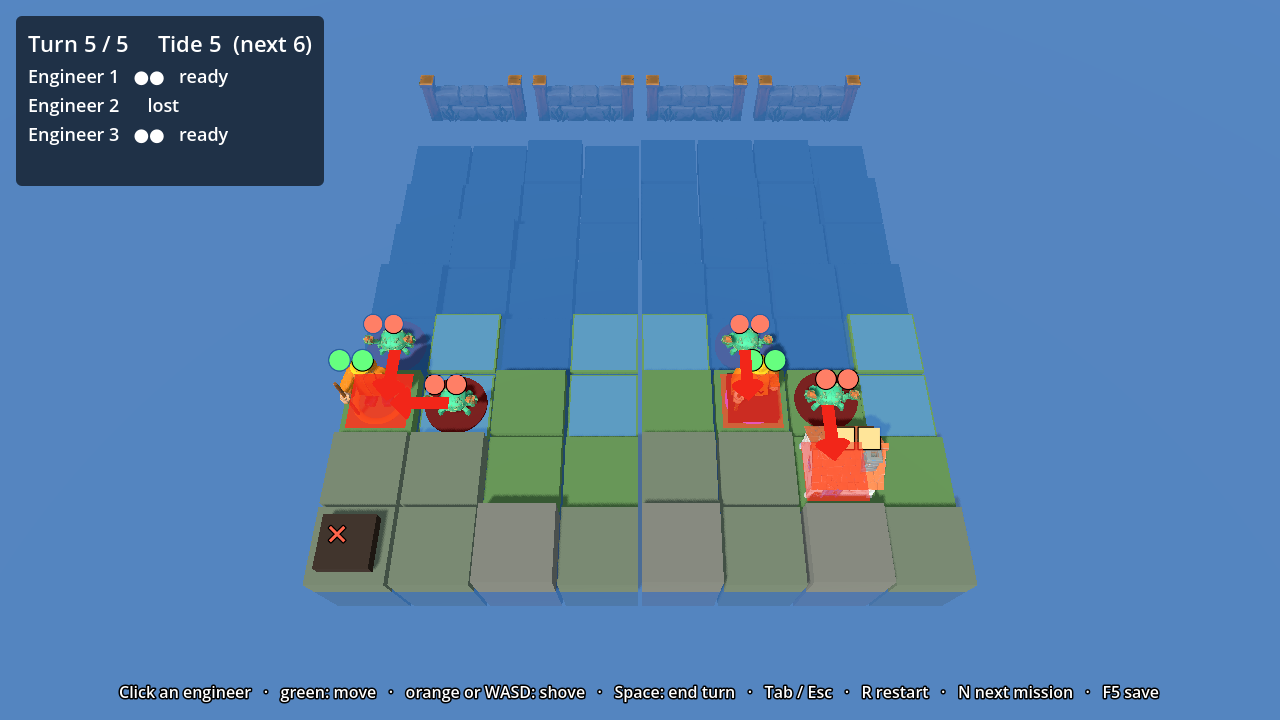
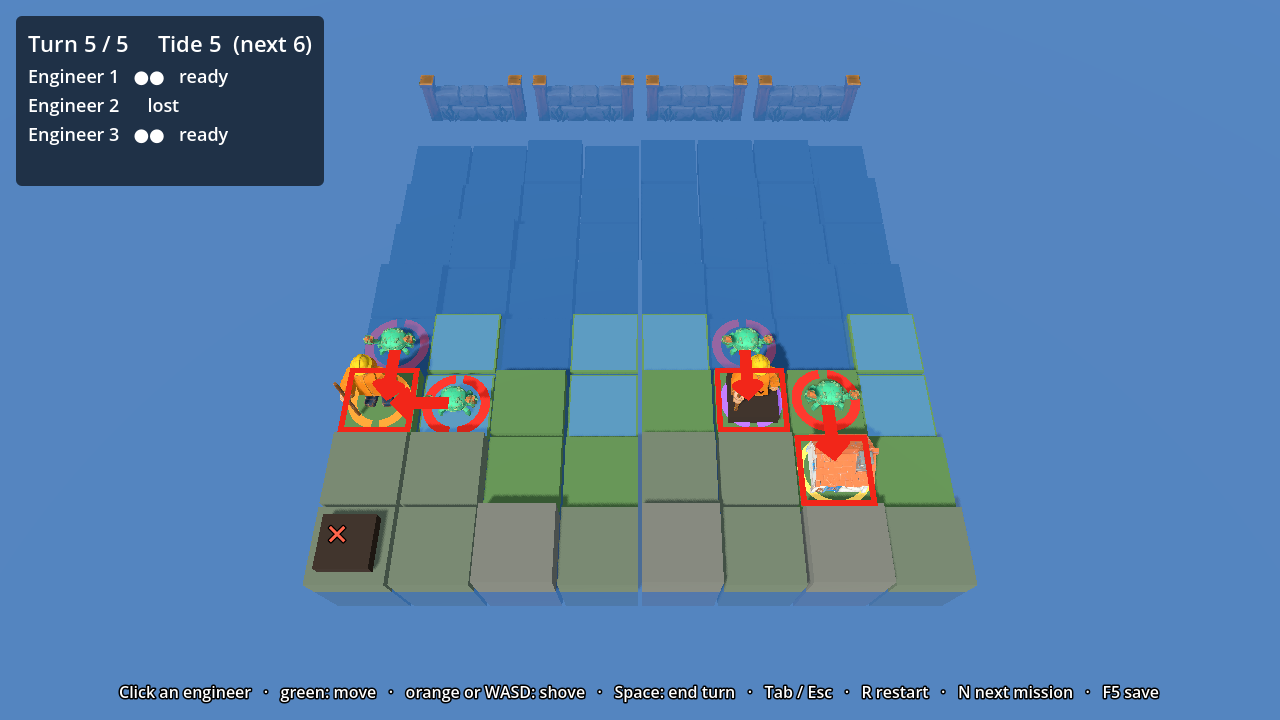
Show health on the ground, not over the models (#55)
Show health on the ground, not over the models

Segmented health rings under units and round cottages, a dark wash on hurt
models, floating pips removed; strike markers become hollow frames so targets
stay readable. Max HP comes from the core. Golden re-recorded on purpose.

Closes #54

Changed region(s): [[0.5312, 0.4278, 0.7188, 0.7028], [0.25, 0.4278, 0.4062, 0.6111]]

diff --git a/extension/src/breakwater_mission.cpp b/extension/src/breakwater_mission.cpp
@@ -158,6 +158,10 @@ godot::String BreakwaterMission::end_turn() { return apply(EndTurnCommand{}); }
 int64_t BreakwaterMission::get_size() const { return kBoardSize; }
 
 int64_t BreakwaterMission::get_turn_count() const { return kTurnCount; }
+
+int64_t BreakwaterMission::get_unit_max_hp() const { return kUnitHp; }
+
+int64_t BreakwaterMission::get_building_max_hp() const { return kBuildingHp; }
 // NOLINTEND(readability-convert-member-functions-to-static)
 
 int64_t BreakwaterMission::get_seed() const { return std::bit_cast<int64_t>(mission_.seed()); }
@@ -256,6 +260,8 @@ void BreakwaterMission::_bind_methods() {
     ClassDB::bind_method(D_METHOD("get_seed"), &BreakwaterMission::get_seed);
     ClassDB::bind_method(D_METHOD("get_turn"), &BreakwaterMission::get_turn);
     ClassDB::bind_method(D_METHOD("get_turn_count"), &BreakwaterMission::get_turn_count);
+    ClassDB::bind_method(D_METHOD("get_unit_max_hp"), &BreakwaterMission::get_unit_max_hp);
+    ClassDB::bind_method(D_METHOD("get_building_max_hp"), &BreakwaterMission::get_building_max_hp);
     ClassDB::bind_method(D_METHOD("get_tide"), &BreakwaterMission::get_tide);
     ClassDB::bind_method(D_METHOD("get_outcome"), &BreakwaterMission::get_outcome);
     ClassDB::bind_method(D_METHOD("get_elevation", "x", "y"), &BreakwaterMission::get_elevation);

diff --git a/extension/src/breakwater_mission.hpp b/extension/src/breakwater_mission.hpp
@@ -78,6 +78,9 @@ public:
     [[nodiscard]] int64_t get_seed() const;
     [[nodiscard]] int64_t get_turn() const;
     [[nodiscard]] int64_t get_turn_count() const;
+    /// Full HP of a unit and of a building, for health displays.
+    [[nodiscard]] int64_t get_unit_max_hp() const;
+    [[nodiscard]] int64_t get_building_max_hp() const;
     [[nodiscard]] int64_t get_tide() const;
     [[nodiscard]] int64_t get_outcome() const;
     [[nodiscard]] int64_t get_elevation(int64_t x, int64_t y) const;

diff --git a/core/include/breakwater/board.hpp b/core/include/breakwater/board.hpp
@@ -10,6 +10,8 @@ namespace breakwater {
 
 inline constexpr int kBoardSize = 8;
 inline constexpr std::size_t kTileCount = static_cast<std::size_t>(kBoardSize) * kBoardSize;
+/// A building's HP when generated (docs/RULES.md, Island).
+inline constexpr std::uint8_t kBuildingHp = 2;
 
 /// Row 0 is the sea edge; y grows inland.
 struct Coord {

diff --git a/core/src/board.cpp b/core/src/board.cpp
@@ -11,7 +11,6 @@ namespace breakwater {
 namespace {
 
 constexpr int kBuildingCount = 3;
-constexpr std::uint8_t kBuildingHp = 2;
 constexpr int kTownFirstRow = 5;
 
 [[nodiscard]] std::size_t index_of(Coord c) {

diff --git a/assets/PROVENANCE.md b/assets/PROVENANCE.md
@@ -57,5 +57,6 @@ in #43.
   2026-10-13 and cleared the repository to go public with these assets. They
   are distributed under the repository's BSD 3-Clause licence (`LICENSE`).
 - **Owner approval:** the look (A) was chosen by Claude on the owner's
-  instruction to "generate the assets and get them integrated" (#43). The
-  owner's review of the integrated result is pending: see the PR captures.
+  instruction (#43). The owner reviewed the integrated captures on 2026-10-13
+  ("the assets look okay") and asked for the health display to be cleaned up,
+  which #54 did.
